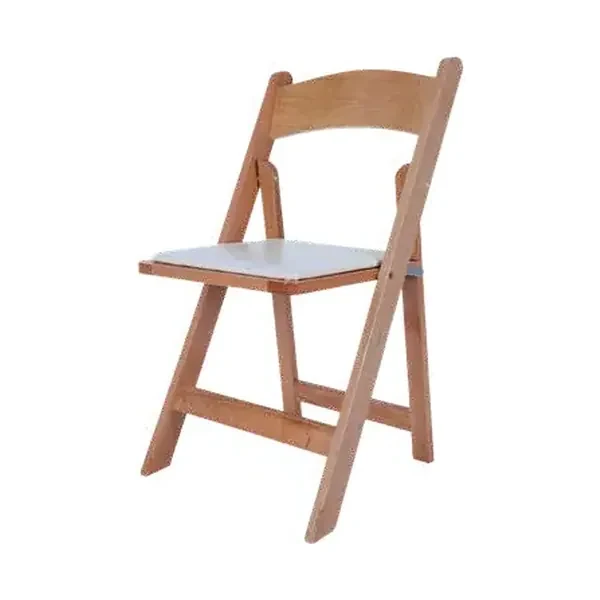
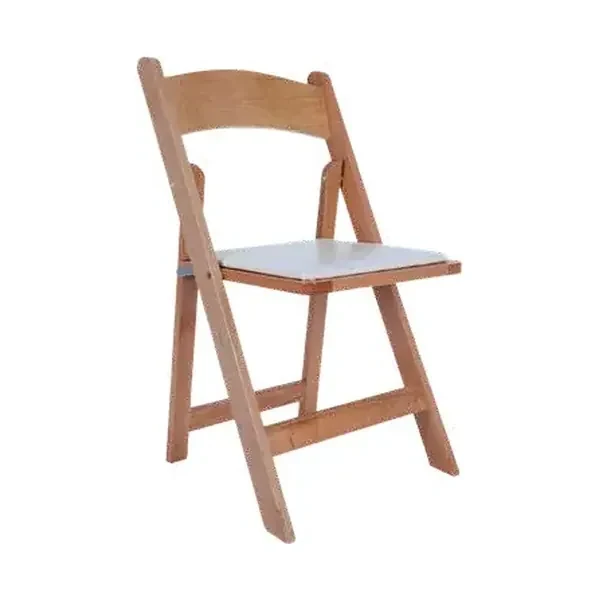
Sillas al mismo lado y encabezado original del catálogo

Changed region(s): [[0.21, 0.09, 0.78, 0.93]]

diff --git a/catalogo.html b/catalogo.html
@@ -15,7 +15,7 @@
 <link rel="apple-touch-icon" href="img/site/apple-touch-icon.png">
 <link rel="preconnect" href="https://fonts.googleapis.com">
 <link rel="preconnect" href="https://fonts.gstatic.com" crossorigin>
-<link rel="stylesheet" href="https://fonts.googleapis.com/css2?family=Caveat+Brush&family=Figtree:wght@400;500;600;700;800&display=swap">
+<link rel="stylesheet" href="https://fonts.googleapis.com/css2?family=Caveat+Brush&family=League+Spartan:wght@700;800&family=Figtree:wght@400;500;600;700;800&display=swap">
 <style>
 html{color-scheme:light}body{margin:0}img{max-width:100%}[hidden]{display:none!important}
 /* Layout: brand header → sticky category rail → product grids per category → floating "tu lista" bar → quote sheet that sends to WhatsApp */
@@ -186,7 +186,11 @@ main{padding-bottom:120px}
 .sitio-menu{display:none;background:none;border:0;padding:8px;cursor:pointer;color:var(--navy)}
 .sitio-menu svg{width:28px;height:28px}
 @media (max-width:820px){.sitio-menu{display:block}.sitio-nav{position:absolute;top:68px;left:0;right:0;flex-direction:column;align-items:stretch;gap:0;background:#fff;border-bottom:1px solid var(--line);padding:8px 16px 16px;display:none}.sitio-nav.abierto{display:flex}.sitio-nav a{padding:14px 8px;border-radius:8px}.sitio-nav .sitio-wa{text-align:center;margin-top:8px}}
-.top h1{margin-top:4px}
+.cat-hero{background:var(--navy);color:#fff;padding:44px 0 36px;position:relative;overflow:hidden}
+.cat-hero::after{content:"";position:absolute;right:-60px;top:-60px;width:220px;height:220px;background:var(--sun);transform:rotate(45deg)}
+.cat-hero h1{color:#fff;font-family:"League Spartan",var(--body);font-weight:800;font-size:clamp(34px,5vw,52px);line-height:1.1;margin:0;position:relative;z-index:1}
+.cat-hero p{color:rgba(255,255,255,.85);margin:8px 0 0;position:relative;z-index:1;max-width:52ch;font-size:16px}
+@media (max-width:720px){.cat-hero{padding:32px 0 28px}.cat-hero::after{width:110px;height:110px;right:-55px;top:-55px}}
 </style>
 </head>
 <body>
@@ -204,10 +208,10 @@ main{padding-bottom:120px}
     </nav>
   </div>
 </header>
-<div class="top">
+<div class="cat-hero">
   <div class="wrap">
     <h1>Catálogo</h1>
-    <p>Toca <b>“Agregar”</b>, ajusta la cantidad con <b>− / +</b> y envía tu lista por WhatsApp, también en PDF con fotos.</p>
+    <p>Toca <strong>“Agregar”</strong>, ajusta la cantidad con <strong>− / +</strong> y envía tu lista por WhatsApp, también en PDF con fotos.</p>
   </div>
 </div>
 
@@ -263,7 +267,7 @@ const DATA = {"cats":[["sillas","Sillas"],["mesas","Mesas"],["infantil","Infanti
 const WA = "50378747425";
 const $ = s => document.querySelector(s);
 const esc = s => String(s).replace(/[&<>"]/g, c => ({"&":"&amp;","<":"&lt;",">":"&gt;",'"':"&quot;"}[c]));
-const IMG = n => "img/cotizar/" + n + ".webp";
+const IMG = n => "img/cotizar/" + n + ".webp?v=2";
 const catName = Object.fromEntries(DATA.cats);
 const byId = Object.fromEntries(DATA.products.map(p => [p.id, p]));
 

diff --git a/cotizar.html b/cotizar.html
@@ -238,7 +238,7 @@ const DATA = {"cats":[["sillas","Sillas"],["mesas","Mesas"],["infantil","Infanti
 const WA = "50378747425";
 const $ = s => document.querySelector(s);
 const esc = s => String(s).replace(/[&<>"]/g, c => ({"&":"&amp;","<":"&lt;",">":"&gt;",'"':"&quot;"}[c]));
-const IMG = n => "img/cotizar/" + n + ".webp";
+const IMG = n => "img/cotizar/" + n + ".webp?v=2";
 const catName = Object.fromEntries(DATA.cats);
 const byId = Object.fromEntries(DATA.products.map(p => [p.id, p]));
 
